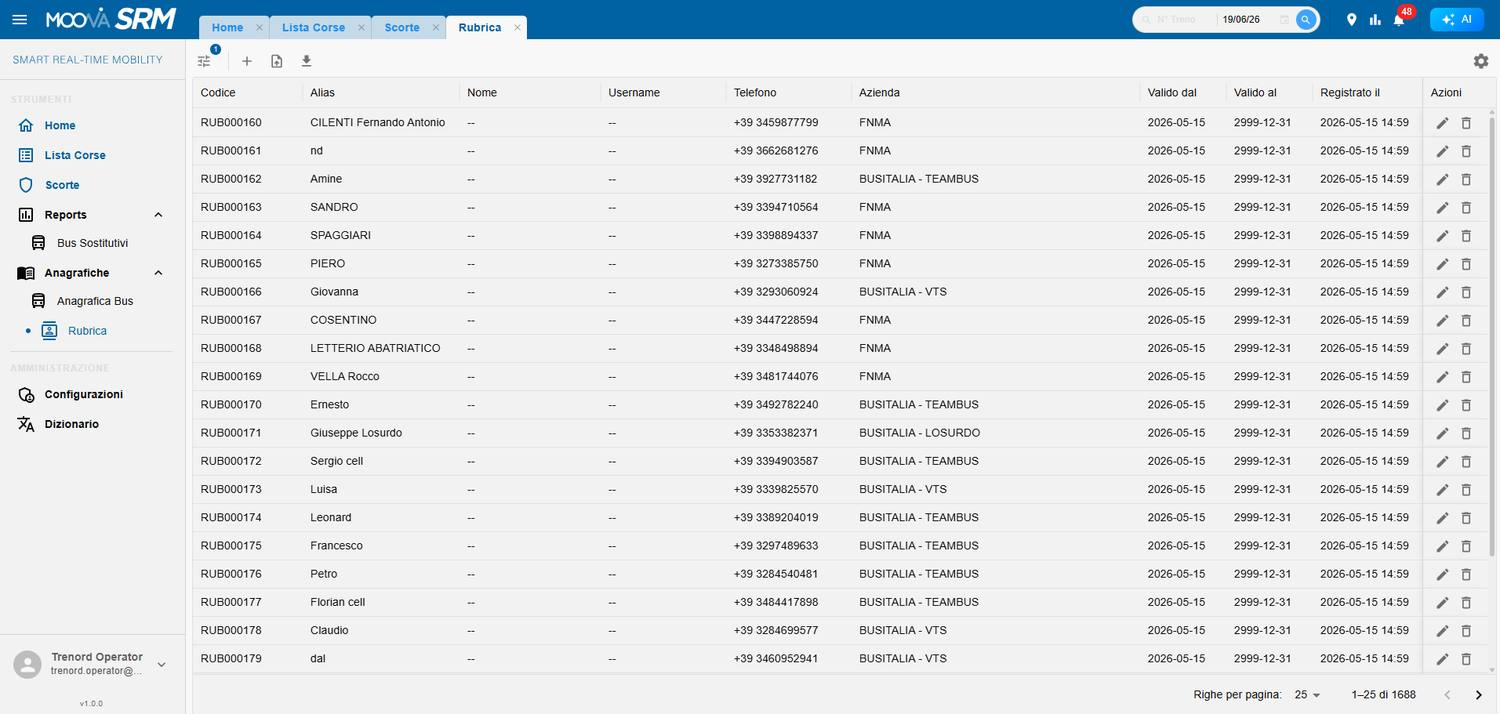
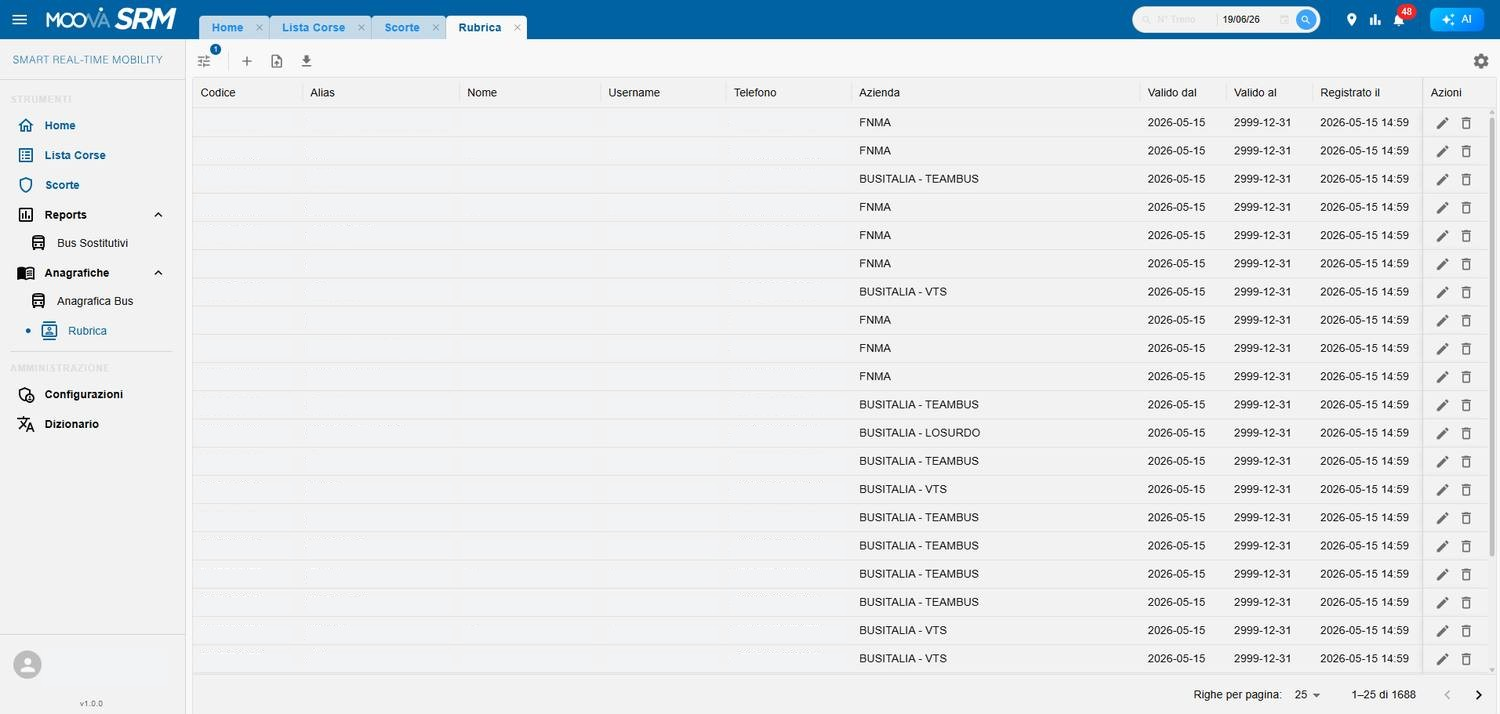
Fix content

diff --git a/index.html b/index.html
@@ -69,11 +69,17 @@
   .sec-label{font-size:12px;letter-spacing:.14em;text-transform:uppercase;color:var(--ink-mute);font-weight:600;margin:0 0 8px}
   h2{font-size:25px;font-weight:600;margin:0 0 8px;letter-spacing:-.3px}
   .sec-intro{color:var(--ink-soft);max-width:70ch;margin:0 0 20px;font-size:15.5px}
-  #perche .sec-intro{max-width:none;margin-bottom:16px}
-  .skill-value{display:grid;grid-template-columns:190px 1fr;gap:18px;align-items:center;margin:0 0 14px;padding:13px 15px;border-left:3px solid var(--accent);background:var(--accent-soft)}
-  .skill-value h3{font-size:15px;margin:0;color:var(--accent)}
-  .skill-value p{font-size:13px;line-height:1.5;color:var(--ink-soft);margin:0}
-  @media(max-width:680px){.skill-value{grid-template-columns:1fr;gap:4px}}
+  #perche{padding-top:14px;padding-bottom:14px}
+  #perche .sec-intro{max-width:none;margin-bottom:10px;font-size:14.5px;line-height:1.45}
+  #perche .grid3{gap:8px}
+  #perche .vp{padding:9px 11px}
+  #perche .vp .ic{width:22px;height:22px;margin-bottom:5px}
+  #perche .vp h3{font-size:13.5px;margin-bottom:2px}
+  #perche .vp p{font-size:11.5px;line-height:1.35}
+  #perche .fond-in .sec-label{margin-top:12px!important;margin-bottom:4px}
+  #perche .fond-in h3{margin-bottom:3px!important}
+  #perche .fond-in .sec-intro{margin-bottom:8px!important}
+  #perche .std{padding:5px 11px;font-size:12px}
   .grid3{display:grid;grid-template-columns:repeat(3,1fr);gap:12px}
   @media(max-width:760px){.grid3{grid-template-columns:1fr}}
   .vp{background:var(--surface);border:1px solid var(--line);border-radius:10px;padding:13px 14px}
@@ -229,7 +235,6 @@
     <p class="sec-label">Perché SRM</p>
     <h2>Monitorare, gestire, qualificare — da un unico ecosistema</h2>
     <p class="sec-intro">SRM coordina dati operativi e informazioni sul personale per offrire una visione completa del servizio: dalla posizione delle corse e dagli eventi di esercizio fino ad abilitazioni, visite mediche, valutazioni e continuità operativa. Dashboard, KPI e alert trasformano i dati in azioni tempestive e verificabili.</p>
-    <div class="skill-value"><h3>Sicurezza e conformità</h3><p>Una visione unica e aggiornata di abilitazioni, idoneità sanitarie, valutazioni e formazione. Alert e regole configurabili aiutano a prevenire le scadenze, mentre l'integrazione con HR e sistemi di turnazione consente di pianificare il personale sulla base di competenze valide e verificate.</p></div>
     <div class="grid3"><div class="vp"><div class="ic">◉</div><h3>Strumenti di monitoraggio</h3><p>Tutti i classici strumenti del monitoraggio — mappe, liste, viste linearizzate, schede di dettaglio, storico dei percorsi — per corse vestite e non.</p></div><div class="vp"><div class="ic">◧</div><h3>Gestione operativa</h3><p>Avvisi, allarmi e motivi di ritardo, scorte e spole, vestizione dei mezzi e del personale: la gestione operativa in un unico posto.</p></div><div class="vp"><div class="ic">✦</div><h3>AI a supporto</h3><p>Strumenti di intelligenza artificiale integrati a supporto del monitoraggio e della gestione operativa.</p></div><div class="vp"><div class="ic">⚙</div><h3>Configurabile</h3><p>Home a widget personalizzabile, cataloghi, tipi di nota/avviso, ruoli e soglie gestiti a runtime. Dizionario multilingua integrato.</p></div><div class="vp"><div class="ic">▢</div><h3>Leggera sull'hardware</h3><p>Sviluppata per richiedere poche risorse hardware: può girare anche su cluster di piccole dimensioni.</p></div><div class="vp"><div class="ic">⬡</div><h3>Multimodale nativa</h3><p>Focus spiccato sul monitoraggio multimodale, con algoritmi per il calcolo di coincidenze e corrispondenze e strumenti dedicati agli interscambi.</p></div><div class="vp"><div class="ic">▤</div><h3>Ottimizzata per mobile</h3><p>Interfaccia pienamente responsiva: la sala operativa e gli strumenti di monitoraggio funzionano perfettamente anche da smartphone e tablet.</p></div><div class="vp"><div class="ic">◱</div><h3>App terra-bordo</h3><p>Applicazione dedicata alla comunicazione terra-bordo, con interfacce già progettate — alcune già implementate — per il personale a bordo.</p></div><div class="vp"><div class="ic">✉</div><h3>Ticketing e triage</h3><p>Gli operatori aprono segnalazioni direttamente dallo strumento: ogni evento diventa un ticket tracciato. Un sistema di triage smista automaticamente le segnalazioni verso il canale di risoluzione corretto, accelerando la presa in carico.</p></div></div><div class="fond-in"><p class="sec-label" style="margin-top:20px">I fondamenti</p><h3 style="font-size:17px;font-weight:600;margin:0 0 6px">Costruita sugli standard e lavorando a stretto contatto con i clienti</h3><p class="sec-intro" style="max-width:none;margin-bottom:12px">Questi sono i fondamenti effettivi della piattaforma: non solo l'aderenza ai modelli dati del trasporto pubblico &mdash; che rende SRM interoperabile e a prova di futuro, evitando il lock-in &mdash; ma anche anni di esperienza sul campo con i clienti del settore, tradotta in funzionalità concrete e implementate.</p><div class="stds">
       <span class="std">Transmodel</span><span class="std">NeTEx</span><span class="std">SIRI · VM / SX / ET</span>
       <span class="std">GTFS / GTFS-RT</span><span class="std">TPEG</span><span class="std">D.Lgs. 247/2010 · Certificato Complementare</span>

diff --git a/content/roadmap.js b/content/roadmap.js
@@ -26,10 +26,11 @@ window.ROADMAP_CONTENT = {
   { id: "f31", badge: "Fase 3.1", title: "Strumenti Evoluti", when: "T3 2026 · da lug", color: "#b9711a" },
   { id: "f32", badge: "Fase 3.2", title: "Realizzazione modello rete e composizione", when: "T3 2026 · da lug", color: "#cf8a28" },
   { id: "f33", badge: "Fase 3.3", title: "Assessment applicativo sui progetti", when: "T3 2026 · da lug", color: "#e0a63f" },
+  { id: "skill", badge: "Fase 4", title: "Porting SKILL Maintenance", when: "T3 2026", color: "#0f8a78" },
   { id: "f5", badge: "Fase 5", title: "Applicazione Mobile", when: "T4 2026", color: "#c2410c" },
   { id: "f51", badge: "Fase 5.1", title: "Applicazione Mobile — evoluzioni", when: "T4 2026", color: "#c2410c" },
-  { id: "f4", badge: "Fase 4", title: "Regia, gestione operativa, console e porting", when: "T3 2026", color: "#9333a8" },
-  { id: "ai", badge: "Fase 6", title: "AI assistant - ampliamento", when: "T1 2027", color: "#6d4ad1" },
+  { id: "f4", badge: "Fase 6", title: "Regia, gestione operativa, console e porting", when: "T3 2026", color: "#9333a8" },
+  { id: "ai", badge: "Fase 7", title: "AI assistant - ampliamento", when: "T1 2027", color: "#6d4ad1" },
   { id: "tbd", badge: "Fase TBD", title: "Da definire", when: "TBD", color: "#6b7280" }
   ],
 
@@ -127,6 +128,23 @@ window.ROADMAP_CONTENT = {
       desc: "Dashboard di indicatori chiave di prestazione del servizio." }
     ],
 
+    "skill": [
+    { title: "Porting gestione competenze", short: "Competenze integrate in SRM", tags: ["porting", "skill maintenance", "FE/BE"], status: "done",
+      desc: "Integrazione in SRM della gestione delle competenze e della continuità operativa del personale." },
+    { title: "Porting squadre istruttori", short: "Agenti assegnati agli istruttori", tags: ["porting", "skill maintenance", "istruttori"], status: "done",
+      desc: "Integrazione in SRM della creazione e gestione delle squadre di agenti assegnate agli istruttori." },
+    { title: "Porting titoli e qualifiche", short: "Abilitazioni integrate in SRM", tags: ["porting", "skill maintenance", "qualifiche"], status: "done",
+      desc: "Integrazione in SRM di titoli abilitativi, qualifiche su linee, impianti e veicoli e relativi certificati." },
+    { title: "Porting scadenziario sanitario", short: "Visite e revisioni", tags: ["porting", "skill maintenance", "scadenze"], status: "done",
+      desc: "Integrazione in SRM del monitoraggio delle visite mediche, degli esiti, delle revisioni e degli alert di scadenza." },
+    { title: "Porting agenda e valutazioni", short: "Attività degli istruttori", tags: ["porting", "skill maintenance", "valutazioni"], status: "done",
+      desc: "Integrazione in SRM dell'agenda degli istruttori, delle attività svolte e delle valutazioni delle competenze." },
+    { title: "Porting formazione ed e-learning", short: "Percorsi formativi", tags: ["porting", "skill maintenance", "formazione"], status: "",
+      desc: "Integrazione in SRM di corsi, sessioni, presenze, attestati, materiali didattici, test e questionari online." },
+    { title: "Generalizzazione integrazioni aziendali", short: "HR, turnazione e firma digitale", tags: ["porting", "skill maintenance", "integrazioni"], status: "",
+      desc: "Integrazione di SRM con sistemi HR, IVU Crew, turnazione, firma digitale e piattaforme LMS tramite adapter e API." }
+    ],
+
     "f4": [
     { title: "Regia linee + bordo", short: "Operatori, voce, app bordo", tags: ["srm-operator-management", "srm-voice-gateway", "app bordo"], status: "",
       desc: "Blocco unico: assegnazione 1:1 linea-operatore, riduzione in morbida, failover supervisore. Voce PTT/VoIP, comunicazioni bordo-terra, app bordo, turnazione materiale." },
@@ -136,8 +154,6 @@ window.ROADMAP_CONTENT = {
       desc: "Monitoraggio dei costi di esercizio." },
     { title: "Handover", short: "Passaggio consegne (porting)", tags: ["porting", "nuovo MS", "FE/BE"], status: "",
       desc: "Porting passaggio consegne sul nuovo MS SRM. Analisi delta old → new." },
-    { title: "Porting SKILL Maintenance", short: "Competenze integrate in SRM", tags: ["porting", "skill maintenance", "FE/BE"], status: "",
-      desc: "Porting di SKILL Maintenance all'interno di SRM, con integrazione di competenze, titoli e qualifiche, scadenze sanitarie, agenda e valutazioni, formazione e collegamenti con i sistemi aziendali." },
     { title: "Contratto di Servizio", short: "Con Authority", tags: ["soglie"], status: "",
       desc: "Creazione, modifiche, monitoraggio e rendicontazione dei contratti di servizio con authority." }
     ],

diff --git a/content/prodotto.js b/content/prodotto.js
@@ -78,37 +78,31 @@ window.PRODOTTO_CONTENT = [
     src: "assets/img/skill-gestione-competenze.png"
   },
   {
-    title: "SKILL — squadra dell'istruttore",
+    title: "SKILL Maintenance — agenda e valutazioni",
+    desc: "L'istruttore verifica lo stato delle competenze della squadra e registra colloqui, affiancamenti, letture zona e valutazioni sulle competenze configurate. Le attività possono sanare situazioni negative, restano consultabili nello storico e sono disponibili anche in una vista a calendario.",
+    type: "image",
+    src: "assets/img/skill-agenda-valutazioni.png"
+  },  
+  {
+    title: "SKILL Maintenance — squadra dell'istruttore",
     desc: "L'istruttore crea e gestisce la propria squadra di agenti, anche appartenenti a impianti diversi, per verificarne le competenze e monitorare scadenze professionali e sanitarie. L'associazione rispetta area e tipologia del titolo abilitativo; anche l'istruttore deve possedere qualifiche valide e coerenti con quelle che è autorizzato a valutare.",
     type: "image",
     src: "assets/img/skill-squadra-istruttore.png"
   },
   {
-    title: "SKILL — titoli e qualifiche",
+    title: "SKILL Maintenance— titoli e qualifiche",
     desc: "Per ogni agente è possibile associare e aggiornare il titolo abilitativo per area, definire qualifiche su linee, impianti e veicoli e gestirne lo stato mediante attivazione, sospensione o revoca. Il sistema produce il Certificato Complementare secondo gli standard europei previsti dal D.Lgs. 247.",
     type: "image",
     src: "assets/img/skill-titoli-qualifiche.png"
   },
   {
-    title: "SKILL — scadenziario sanitario",
+    title: "SKILL Maintenance —scadenziario sanitario",
     desc: "Lo scadenziario monitora visite, esiti e revisioni del personale impiegato in sicurezza di esercizio. Un algoritmo configurabile calcola la prossima visita secondo le normative aziendali e gli alert cromatici evidenziano l'avvicinarsi delle scadenze; lo storico conserva visite fisiche, psicologiche, revisioni e controlli.",
     type: "image",
     src: "assets/img/skill-scadenziario-sanitario.png"
   },
   {
-    title: "SKILL — agenda e valutazioni",
-    desc: "L'istruttore verifica lo stato delle competenze della squadra e registra colloqui, affiancamenti, letture zona e valutazioni sulle competenze configurate. Le attività possono sanare situazioni negative, restano consultabili nello storico e sono disponibili anche in una vista a calendario.",
-    type: "image",
-    src: "assets/img/skill-agenda-valutazioni.png"
-  },
-  {
-    title: "SKILL — formazione ed e-learning",
-    desc: "Il modulo gestisce catalogo corsi, piani formativi per ruolo e qualifica, sessioni in presenza o online, partecipanti, docenti, calendari e sedi. Registra presenze, materiali, valutazioni e attestati; l'e-learning traccia moduli digitali, test, questionari, completamento ed esiti, mantenendo allineati formazione, competenze e requisiti normativi.",
-    type: "image",
-    src: "assets/img/skill-maintenance.png"
-  },
-  {
-    title: "SKILL — integrazioni aziendali",
+    title: "SKILL Maintenance — integrazioni aziendali",
     desc: "Adapter e API protette integrano SKILL Maintenance con sistemi HR, IVU Crew, turnazione, firma digitale e piattaforme LMS. Sono previsti scambio bidirezionale delle anagrafiche, trasferimento continuo di qualifiche e autorizzazioni validate, import Excel per licenze, visite e continuità operativa e funzioni manuali per accompagnare l'avvio delle integrazioni.",
     type: "image",
     src: "assets/img/skill-integrazioni-aziendali.png"
